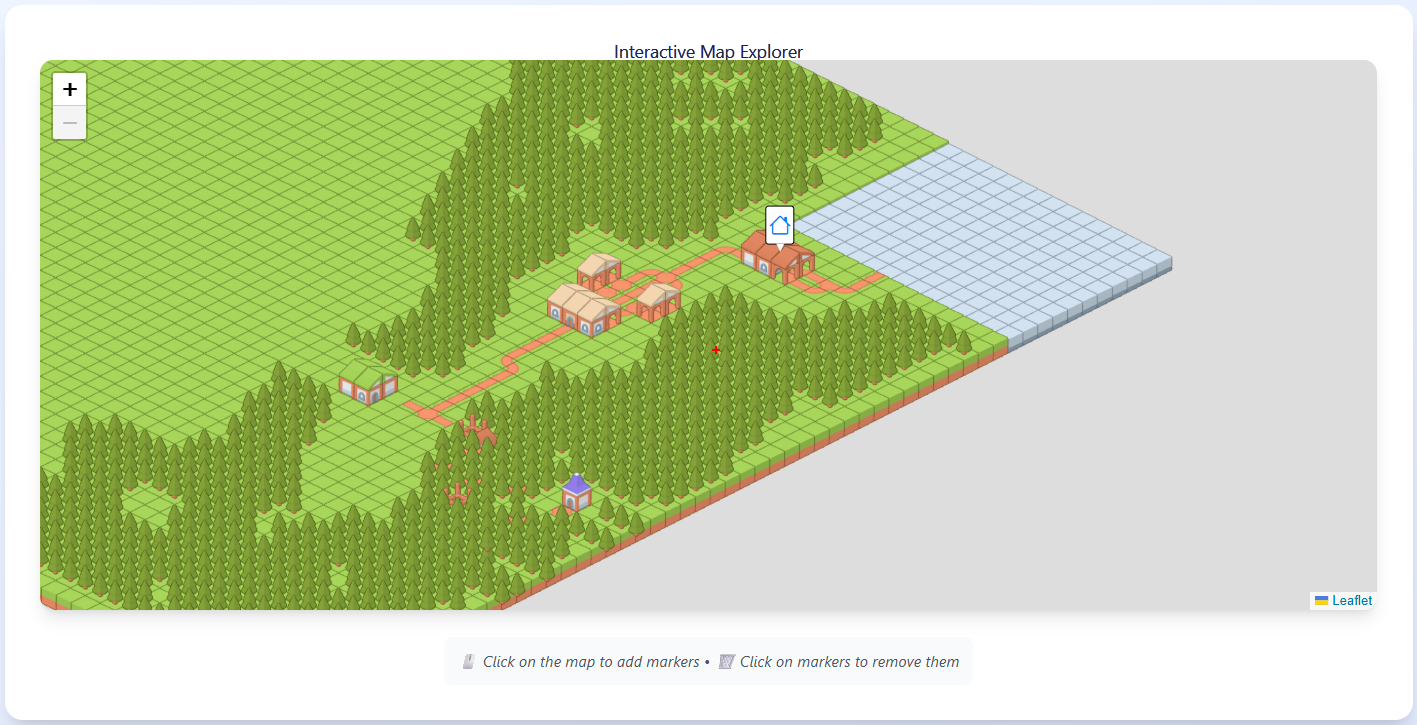
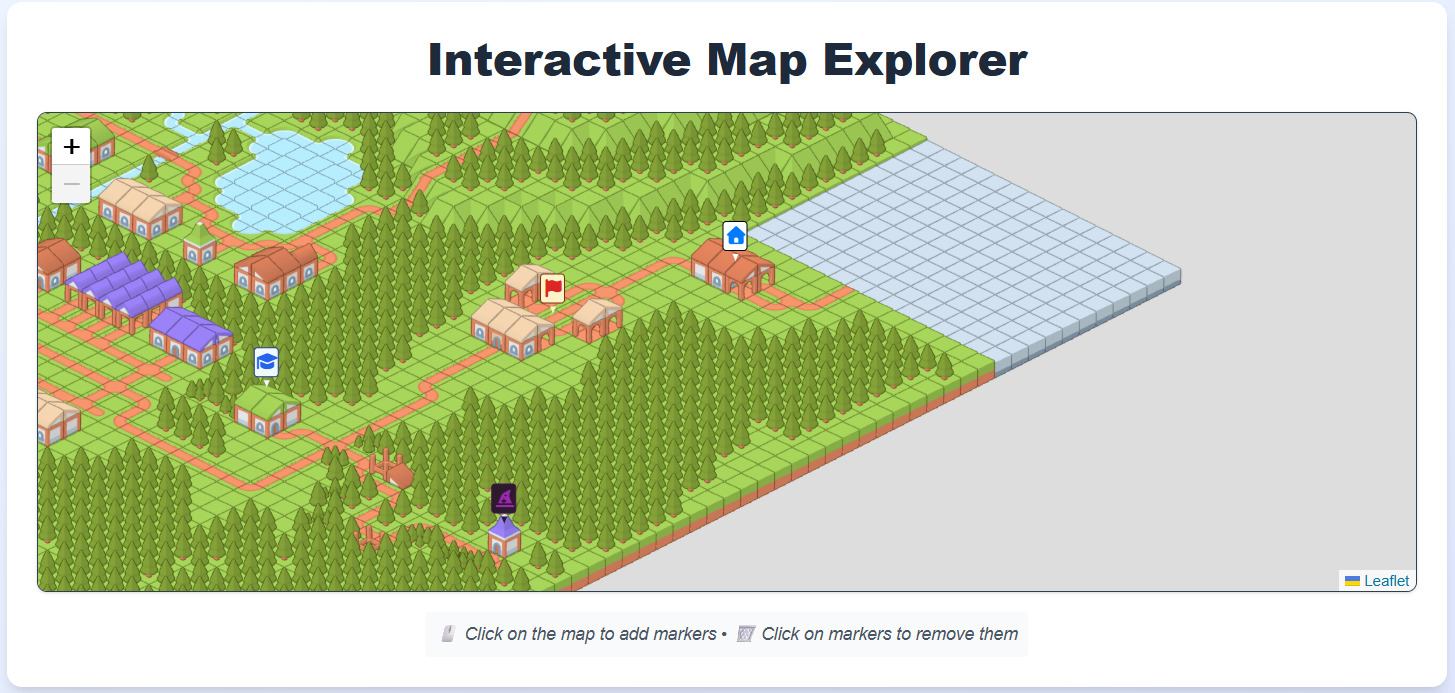
Login unnecessary for looking to the map

diff --git a/backend/src/app.ts b/backend/src/app.ts
@@ -33,8 +33,12 @@ import routes from './routes/index.js';
 export const createApp = (): Application => {
   const app: Application = express();
 
-  // Middleware pour la sécurité et le CORS
-  app.use(cors(corsOptions));
+  // Configuration CORS plus permissive
+  app.use(cors({
+    origin: '*',  // Permet l'accès depuis n'importe quelle origine
+    methods: ['GET', 'POST', 'PUT', 'DELETE', 'PATCH', 'OPTIONS'],
+    credentials: true
+  }));
 
   // Middleware pour parser les requêtes JSON et URL-encoded
   app.use(express.json({ limit: '10mb' }));

diff --git a/frontend/src/components/Footer.vue b/frontend/src/components/Footer.vue
@@ -13,7 +13,7 @@ import LanguageSwitcher from './navbar/LanguageSwitcher.vue';
             class="h-12 w-auto mr-3"
           />
           <span class="text-gray-600 text-sm">
-            © 2024 MedievalEvent. All rights reserved.
+            © 2025 MedievalEvent. All rights reserved.
           </span>
         </div>
         <div class="flex flex-col md:flex-row items-center space-y-4 md:space-y-0 md:space-x-6">

diff --git a/frontend/src/views/HomeView.vue b/frontend/src/views/HomeView.vue
@@ -142,7 +142,7 @@ function initializeMap() {
     wheelPxPerZoomLevel: 120
   }).setView([250, 250], 0);
 
-  const imageUrl = './maps/50shrinkcompressed.png';
+  const imageUrl = './maps/75shrinkcompressed.png';
   const imageWidth = 6500;
   const imageHeight = 3300;
   const imageBounds: L.LatLngBoundsExpression = [[0, 0], [imageHeight, imageWidth]];

diff --git a/frontend/src/router/index.ts b/frontend/src/router/index.ts
@@ -37,7 +37,7 @@ export const routes = [
     path: '/',
     name: 'map',
     component: () => import('../views/HomeView.vue'),
-    meta: { requiresAuth: true }, // Cette route nécessite que l'utilisateur soit connecté
+    // Retirer meta: { requiresAuth: true } pour rendre la page accessible sans connexion
   },
   {
     path: '/login',
